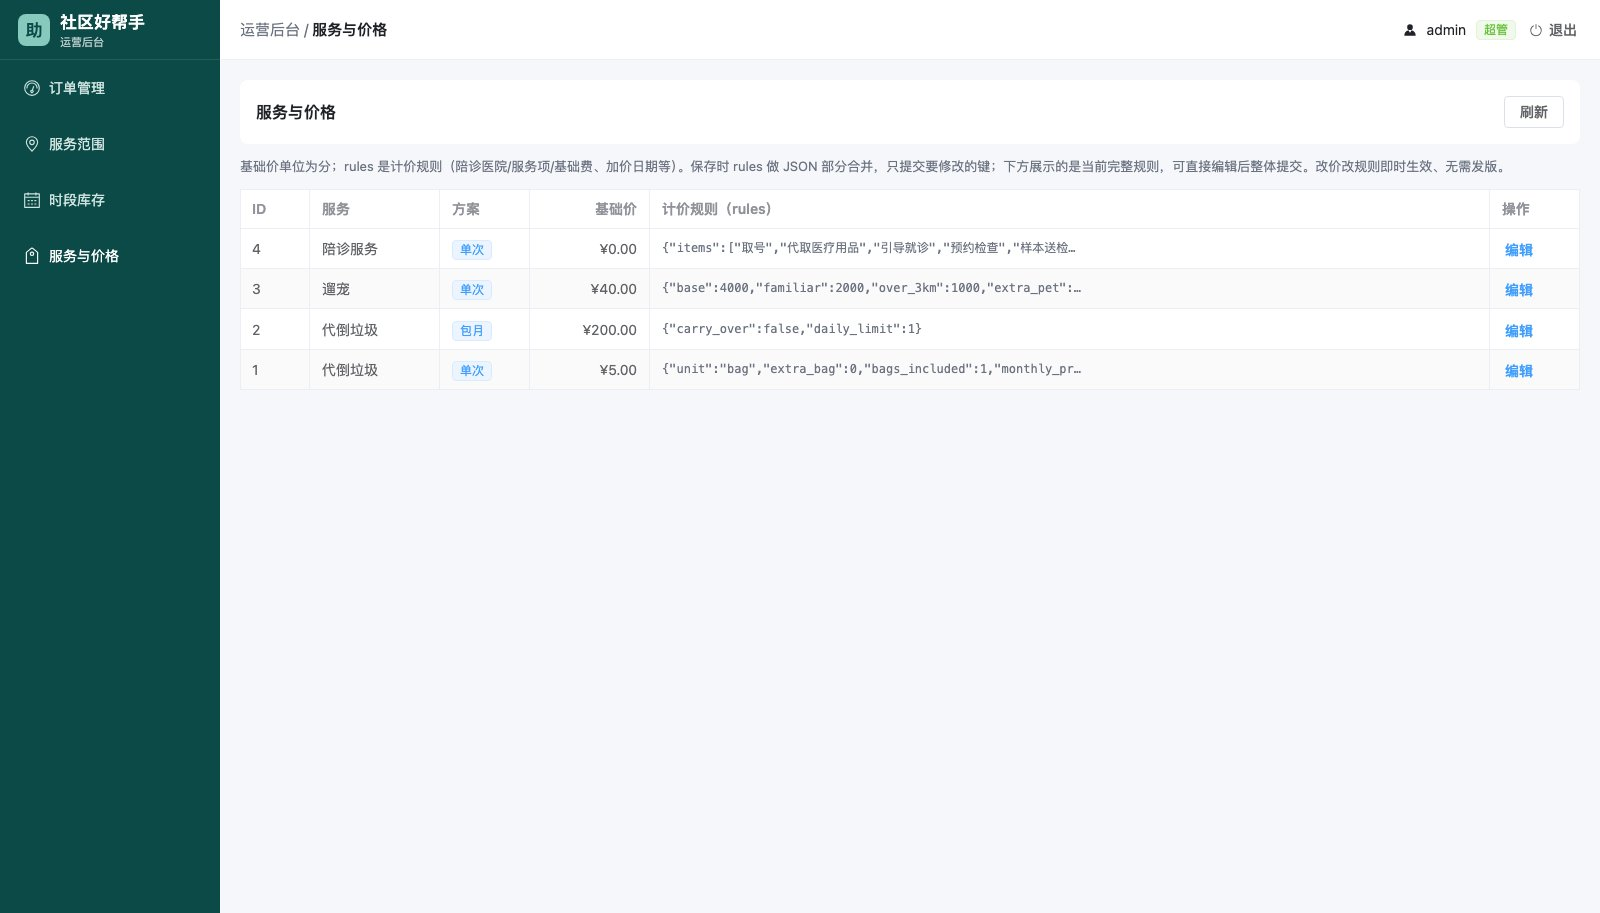
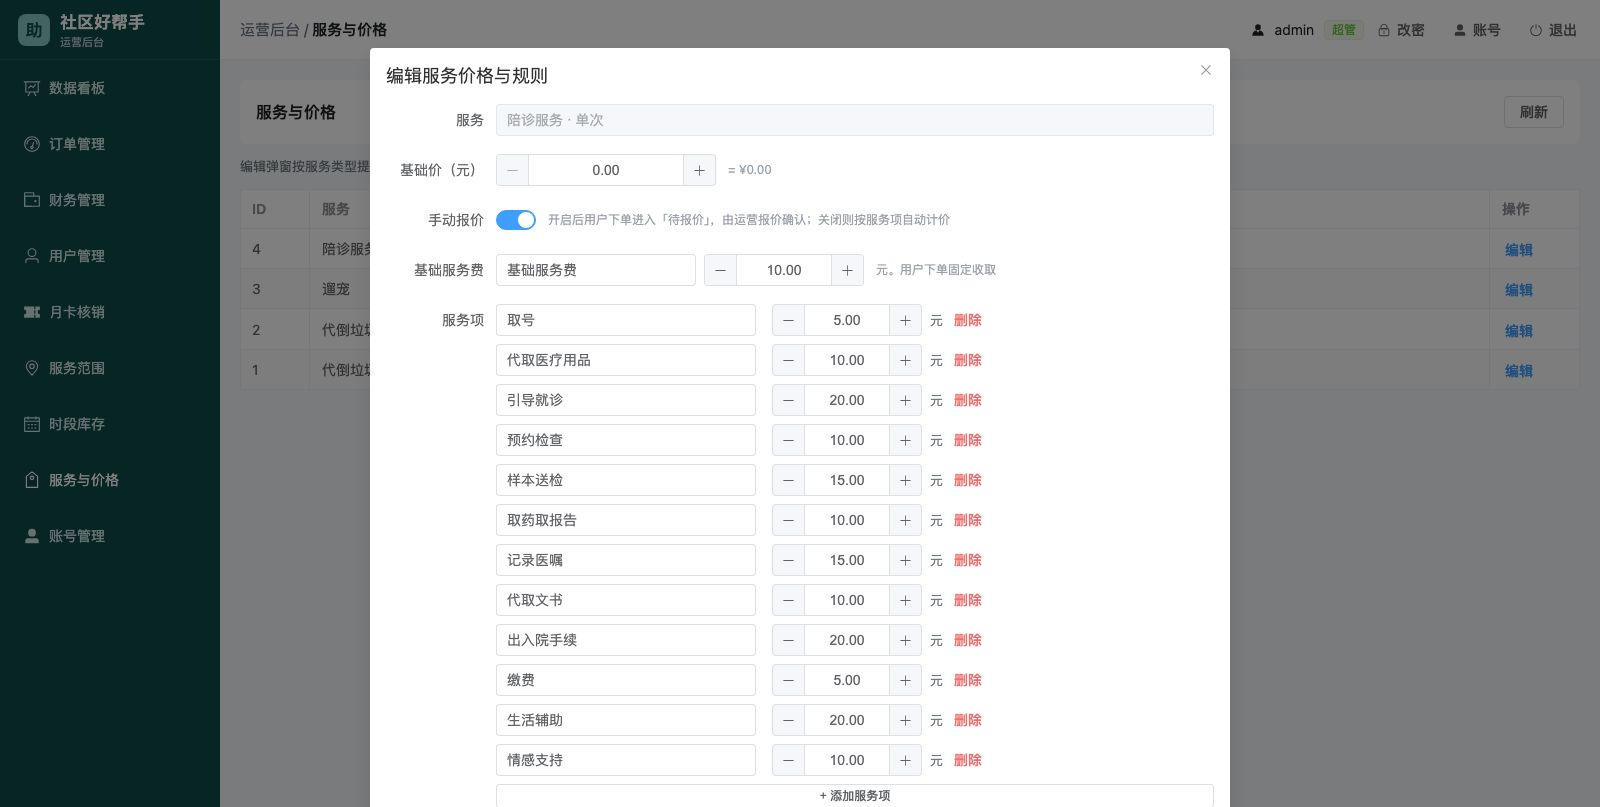
feat: 服务与价格编辑改为结构化表单
- 基础价以元输入；按服务类型分形态：陪诊（手动报价/基础服务费/服务项/医院
  列表化增删，items 自动同步）、遛宠（价格与时长网格表单、节日日期多选）、
  垃圾（单次/包月不同字段）
- 保留「高级 JSON 编辑」开关兜底，结构化值与 JSON 往返一致
- 未识别 rules 键透传保留，截图 05/19 更新

diff --git a/admin/src/views/skus/index.vue b/admin/src/views/skus/index.vue
@@ -1,5 +1,5 @@
 <script setup lang="ts">
-import { onMounted, ref } from 'vue'
+import { computed, onMounted, reactive, ref } from 'vue'
 import { ElMessage } from 'element-plus'
 import { listSkus, updateSku, type ServiceSku, ApiError } from '@/api'
 
@@ -8,13 +8,41 @@ const rows = ref<ServiceSku[]>([])
 const visible = ref(false)
 const saving = ref(false)
 const editing = ref<ServiceSku | null>(null)
-const basePrice = ref(0)
+const advanced = ref(false) // 高级 JSON 模式
 const rulesText = ref('{}')
 const ruleError = ref('')
 
 const typeLabel = (t: string) => ({ garbage: '代倒垃圾', dogwalk: '遛宠', accompany: '陪诊服务' }[t] || t)
 const planLabel = (p: string) => (p === 'monthly' ? '包月' : '单次')
 const money = (fen: number) => `¥${(fen / 100).toFixed(2)}`
+const toYuan = (fen: unknown) => (typeof fen === 'number' ? fen / 100 : 0)
+const toFen = (yuan: number) => Math.round(yuan * 100)
+
+// ---------- 结构化表单状态 ----------
+interface NamedRow { code: string; name: string; priceYuan: number }
+const form = reactive({
+  basePriceYuan: 0,
+  // 陪诊
+  manualQuote: false,
+  baseItemName: '',
+  baseItemPriceYuan: 0,
+  hospitals: [] as { code: string; name: string }[],
+  serviceItems: [] as NamedRow[],
+  // 遛宠：价格（元）
+  dogYuan: { base: 0, familiar: 0, over_3km: 0, extra_pet: 0, feed_only: 0, step_price: 0, holiday_extra: 0 } as Record<string, number>,
+  dogCount: { max_minutes: 120, base_minutes: 20, step_minutes: 10, familiar_free_orders: 5, distance_threshold_km: 3 } as Record<string, number>,
+  holidayDates: [] as string[],
+  // 垃圾
+  garbage: { unit: 'bag', bags_included: 1, extra_bagYuan: 0, monthly_priceYuan: 0, monthly_daily_limit: 1, carry_over: false, daily_limit: 1 },
+})
+
+const isAccompany = computed(() => editing.value?.service_type === 'accompany')
+const isDogwalk = computed(() => editing.value?.service_type === 'dogwalk')
+const isGarbage = computed(() => editing.value?.service_type === 'garbage')
+
+function genCode(prefix: string) {
+  return `${prefix}_${Date.now().toString(36)}${Math.floor(Math.random() * 1e4).toString(36)}`
+}
 
 async function load() {
   loading.value = true
@@ -30,26 +58,124 @@ onMounted(load)
 
 function openEdit(sku: ServiceSku) {
   editing.value = sku
-  basePrice.value = sku.base_price
-  rulesText.value = JSON.stringify(sku.rules ?? {}, null, 2)
+  advanced.value = false
   ruleError.value = ''
+  form.basePriceYuan = toYuan(sku.base_price)
+  const r = (sku.rules ?? {}) as Record<string, unknown>
+
+  // 陪诊
+  form.manualQuote = r.manual_quote === true
+  const bi = (r.base_item ?? null) as { code?: string; name?: string; price?: number } | null
+  form.baseItemName = bi?.name || '基础服务费'
+  form.baseItemPriceYuan = toYuan(bi?.price)
+  form.hospitals = Array.isArray(r.hospitals)
+    ? (r.hospitals as { code: string; name: string }[]).map((h) => ({ code: h.code, name: h.name }))
+    : []
+  form.serviceItems = Array.isArray(r.service_items)
+    ? (r.service_items as { code: string; name: string; price: number }[]).map((i) => ({
+        code: i.code, name: i.name, priceYuan: toYuan(i.price),
+      }))
+    : []
+
+  // 遛宠
+  const dogPriceKeys = ['base', 'familiar', 'over_3km', 'extra_pet', 'feed_only', 'step_price', 'holiday_extra']
+  for (const k of dogPriceKeys) form.dogYuan[k] = toYuan(r[k])
+  const dogCountKeys = ['max_minutes', 'base_minutes', 'step_minutes', 'familiar_free_orders', 'distance_threshold_km']
+  for (const k of dogCountKeys) {
+    const v = r[k]
+    form.dogCount[k] = typeof v === 'number' ? v : form.dogCount[k]
+  }
+  form.holidayDates = Array.isArray(r.holiday_dates) ? (r.holiday_dates as string[]).slice() : []
+
+  // 垃圾
+  form.garbage.unit = typeof r.unit === 'string' ? r.unit : 'bag'
+  form.garbage.bags_included = typeof r.bags_included === 'number' ? r.bags_included : 1
+  form.garbage.extra_bagYuan = toYuan(r.extra_bag)
+  form.garbage.monthly_priceYuan = toYuan(r.monthly_price)
+  form.garbage.monthly_daily_limit = typeof r.monthly_daily_limit === 'number' ? r.monthly_daily_limit : 1
+  form.garbage.carry_over = r.carry_over === true
+  form.garbage.daily_limit = typeof r.daily_limit === 'number' ? r.daily_limit : 1
+
   visible.value = true
+}
+
+// 由结构化表单生成完整 rules（未识别键原样保留）
+function buildRules(): Record<string, unknown> {
+  const src = (editing.value?.rules ?? {}) as Record<string, unknown>
+  const out: Record<string, unknown> = { ...src }
+  if (isAccompany.value) {
+    out.manual_quote = form.manualQuote
+    out.base_item = {
+      code: (src.base_item as { code?: string } | undefined)?.code || 'base_fee',
+      name: form.baseItemName,
+      price: toFen(form.baseItemPriceYuan),
+    }
+    out.hospitals = form.hospitals
+      .filter((h) => h.name.trim())
+      .map((h) => ({ code: h.code, name: h.name.trim() }))
+    out.service_items = form.serviceItems
+      .filter((i) => i.name.trim())
+      .map((i) => ({ code: i.code, name: i.name.trim(), price: toFen(i.priceYuan) }))
+    out.items = (out.service_items as { name: string }[]).map((i) => i.name)
+  } else if (isDogwalk.value) {
+    for (const k of Object.keys(form.dogYuan)) out[k] = toFen(form.dogYuan[k])
+    for (const k of Object.keys(form.dogCount)) out[k] = form.dogCount[k]
+    out.holiday_dates = [...form.holidayDates].sort()
+  } else if (isGarbage.value) {
+    if (editing.value?.plan === 'monthly') {
+      out.carry_over = form.garbage.carry_over
+      out.daily_limit = form.garbage.daily_limit
+    } else {
+      out.unit = form.garbage.unit
+      out.bags_included = form.garbage.bags_included
+      out.extra_bag = toFen(form.garbage.extra_bagYuan)
+      out.monthly_price = toFen(form.garbage.monthly_priceYuan)
+      out.monthly_daily_limit = form.garbage.monthly_daily_limit
+    }
+  }
+  return out
+}
+
+function switchAdvanced(on: boolean) {
+  if (on) {
+    rulesText.value = JSON.stringify(buildRules(), null, 2)
+    ruleError.value = ''
+  }
+  advanced.value = on
+}
+
+function addHospital() {
+  form.hospitals.push({ code: genCode('h'), name: '' })
+}
+function removeHospital(i: number) {
+  form.hospitals.splice(i, 1)
+}
+function addServiceItem() {
+  form.serviceItems.push({ code: genCode('si'), name: '', priceYuan: 0 })
+}
+function removeServiceItem(i: number) {
+  form.serviceItems.splice(i, 1)
 }
 
 async function save() {
   if (!editing.value) return
-  let parsed: Record<string, unknown>
-  try {
-    parsed = JSON.parse(rulesText.value)
-    if (!parsed || typeof parsed !== 'object' || Array.isArray(parsed)) throw new Error('规则必须是 JSON 对象')
-    ruleError.value = ''
-  } catch (e) {
-    ruleError.value = e instanceof Error ? e.message : 'JSON 格式错误'
-    return
+  let rules: Record<string, unknown>
+  if (advanced.value) {
+    try {
+      const parsed = JSON.parse(rulesText.value)
+      if (!parsed || typeof parsed !== 'object' || Array.isArray(parsed)) throw new Error('规则必须是 JSON 对象')
+      rules = parsed
+      ruleError.value = ''
+    } catch (e) {
+      ruleError.value = e instanceof Error ? e.message : 'JSON 格式错误'
+      return
+    }
+  } else {
+    rules = buildRules()
   }
   saving.value = true
   try {
-    await updateSku(editing.value.id, basePrice.value, parsed)
+    await updateSku(editing.value.id, toFen(form.basePriceYuan), rules)
     ElMessage.success('已保存，计价规则即时生效，无需发版')
     visible.value = false
     load()
@@ -68,7 +194,7 @@ async function save() {
       <el-button @click="load">刷新</el-button>
     </div>
     <div class="note">
-      基础价单位为分；rules 是计价规则（陪诊医院/服务项/基础费、加价日期等）。保存时 rules 做 JSON 部分合并，只提交要修改的键；下方展示的是当前完整规则，可直接编辑后整体提交。改价改规则即时生效、无需发版。
+      编辑弹窗按服务类型提供结构化表单（价格为元）；「高级 JSON 编辑」可改全部原始键。保存后即时生效、无需发版。
     </div>
 
     <el-table :data="rows" v-loading="loading" border stripe style="width: 100%">
@@ -92,22 +218,130 @@ async function save() {
       </el-table-column>
     </el-table>
 
-    <el-dialog v-model="visible" title="编辑服务价格与规则" width="720px">
+    <el-dialog v-model="visible" title="编辑服务价格与规则" width="860px" top="6vh">
       <template v-if="editing">
-        <el-form label-width="100px">
+        <el-form label-width="110px">
           <el-form-item label="服务">
             <el-input :model-value="`${typeLabel(editing.service_type)} · ${planLabel(editing.plan)}`" disabled />
           </el-form-item>
-          <el-form-item label="基础价（分）">
-            <el-input-number v-model="basePrice" :min="0" :step="100" style="width: 220px" />
-            <span class="hint">= {{ money(basePrice) }}</span>
+          <el-form-item label="基础价（元）">
+            <el-input-number v-model="form.basePriceYuan" :min="0" :precision="2" :step="1" style="width: 220px" />
+            <span class="hint">= {{ money(toFen(form.basePriceYuan)) }}</span>
           </el-form-item>
-          <el-form-item label="计价规则">
-            <el-input v-model="rulesText" type="textarea" :rows="16" spellcheck="false" class="json-input" />
-            <div v-if="ruleError" class="err">{{ ruleError }}</div>
-            <div class="hint">JSON 对象。陪诊可编辑 hospitals / service_items / base_item；通用可编辑 holiday_dates、billing 等。</div>
-          </el-form-item>
+
+          <!-- 高级 JSON 模式 -->
+          <template v-if="advanced">
+            <el-form-item label="规则 JSON">
+              <el-input v-model="rulesText" type="textarea" :rows="18" spellcheck="false" class="json-input" />
+              <div v-if="ruleError" class="err">{{ ruleError }}</div>
+              <div class="hint">直接编辑原始 JSON 对象，保存整体提交。</div>
+            </el-form-item>
+          </template>
+
+          <!-- 结构化表单 -->
+          <template v-else>
+            <!-- 陪诊 -->
+            <template v-if="isAccompany">
+              <el-form-item label="手动报价">
+                <el-switch v-model="form.manualQuote" />
+                <span class="hint">开启后用户下单进入「待报价」，由运营报价确认；关闭则按服务项自动计价</span>
+              </el-form-item>
+              <el-form-item label="基础服务费">
+                <el-input v-model="form.baseItemName" style="width: 200px" placeholder="名称" />
+                <el-input-number v-model="form.baseItemPriceYuan" :min="0" :precision="2" :step="1" style="width: 160px; margin-left: 8px" />
+                <span class="hint">元。用户下单固定收取</span>
+              </el-form-item>
+              <el-form-item label="服务项">
+                <div class="rows">
+                  <div v-for="(it, i) in form.serviceItems" :key="it.code" class="row">
+                    <el-input v-model="it.name" placeholder="项目名称" style="width: 260px" />
+                    <el-input-number v-model="it.priceYuan" :min="0" :precision="2" :step="1" style="width: 150px; margin-left: 8px" />
+                    <span class="row-unit">元</span>
+                    <el-button link type="danger" @click="removeServiceItem(i)">删除</el-button>
+                  </div>
+                  <el-button size="small" @click="addServiceItem">+ 添加服务项</el-button>
+                  <div class="hint" style="margin-left: 0">按项计价；用户端展示的项目名与价格即来自这里</div>
+                </div>
+              </el-form-item>
+              <el-form-item label="支持医院">
+                <div class="rows">
+                  <div v-for="(h, i) in form.hospitals" :key="h.code" class="row">
+                    <el-input v-model="h.name" placeholder="医院名称" style="width: 320px" />
+                    <el-button link type="danger" @click="removeHospital(i)">删除</el-button>
+                  </div>
+                  <el-button size="small" @click="addHospital">+ 添加医院</el-button>
+                </div>
+              </el-form-item>
+            </template>
+
+            <!-- 遛宠 -->
+            <template v-else-if="isDogwalk">
+              <el-form-item label="价格（元）">
+                <div class="grid">
+                  <div v-for="k in (['base','familiar','over_3km','extra_pet','feed_only','step_price','holiday_extra'] as const)" :key="k" class="cell">
+                    <span class="cell-label">{{ DOG_PRICE_LABELS[k] }}</span>
+                    <el-input-number v-model="form.dogYuan[k]" :min="0" :precision="2" :step="1" style="width: 150px" />
+                  </div>
+                </div>
+              </el-form-item>
+              <el-form-item label="时长 / 规则">
+                <div class="grid">
+                  <div v-for="k in (['base_minutes','step_minutes','max_minutes','familiar_free_orders','distance_threshold_km'] as const)" :key="k" class="cell">
+                    <span class="cell-label">{{ DOG_COUNT_LABELS[k] }}</span>
+                    <el-input-number v-model="form.dogCount[k]" :min="0" style="width: 150px" />
+                  </div>
+                </div>
+              </el-form-item>
+              <el-form-item label="节日加价日">
+                <el-date-picker
+                  v-model="form.holidayDates" type="dates" value-format="YYYY-MM-DD"
+                  placeholder="选择一个或多个日期" style="width: 420px"
+                />
+                <div class="hint">所选日期下单按「节日加价」收取</div>
+              </el-form-item>
+            </template>
+
+            <!-- 垃圾 -->
+            <template v-else-if="isGarbage">
+              <template v-if="editing.plan === 'monthly'">
+                <el-form-item label="每日次数上限">
+                  <el-input-number v-model="form.garbage.daily_limit" :min="1" :max="10" style="width: 200px" />
+                </el-form-item>
+                <el-form-item label="次数可结转">
+                  <el-switch v-model="form.garbage.carry_over" />
+                  <span class="hint">当天未用次数是否结转到次日</span>
+                </el-form-item>
+              </template>
+              <template v-else>
+                <el-form-item label="计价单位">
+                  <el-radio-group v-model="form.garbage.unit">
+                    <el-radio value="bag">按袋</el-radio>
+                  </el-radio-group>
+                </el-form-item>
+                <el-form-item label="含袋数">
+                  <el-input-number v-model="form.garbage.bags_included" :min="1" :max="10" style="width: 200px" />
+                  <span class="hint">基础价包含的袋数</span>
+                </el-form-item>
+                <el-form-item label="超袋加价">
+                  <el-input-number v-model="form.garbage.extra_bagYuan" :min="0" :precision="2" :step="1" style="width: 200px" />
+                  <span class="hint">元 / 袋</span>
+                </el-form-item>
+                <el-form-item label="包月价">
+                  <el-input-number v-model="form.garbage.monthly_priceYuan" :min="0" :precision="2" :step="10" style="width: 200px" />
+                  <span class="hint">元 / 月，展示与包月升级参考价</span>
+                </el-form-item>
+                <el-form-item label="包月每日上限">
+                  <el-input-number v-model="form.garbage.monthly_daily_limit" :min="1" :max="10" style="width: 200px" />
+                </el-form-item>
+              </template>
+            </template>
+          </template>
         </el-form>
+
+        <div class="advanced-toggle">
+          <el-switch :model-value="advanced" @change="(v: unknown) => switchAdvanced(v === true)" />
+          <span class="hint">高级 JSON 编辑（结构化表单之外的全部原始键）</span>
+        </div>
       </template>
       <template #footer>
         <el-button @click="visible = false">取消</el-button>
@@ -117,12 +351,38 @@ async function save() {
   </div>
 </template>
 
+<script lang="ts">
+// 标签常量（模板中使用）
+export default {
+  data() {
+    return {
+      DOG_PRICE_LABELS: {
+        base: '起步价（元）', familiar: '熟悉费（元）', over_3km: '超3km加价（元）',
+        extra_pet: '每多一只（元）', feed_only: '仅喂食（元）', step_price: '时长每档加价（元）',
+        holiday_extra: '节日加价（元）',
+      },
+      DOG_COUNT_LABELS: {
+        base_minutes: '含时长（分钟）', step_minutes: '每档时长（分钟）', max_minutes: '最长时长（分钟）',
+        familiar_free_orders: '免熟悉费订单数', distance_threshold_km: '距离阈值（km）',
+      },
+    }
+  },
+}
+</script>
+
 <style scoped>
 .toolbar { display: flex; align-items: center; justify-content: space-between; background: #fff; padding: 16px; border-radius: 8px; margin-bottom: 12px; }
 .title { font-size: 16px; font-weight: 600; }
 .note { color: #6b7280; font-size: 13px; margin-bottom: 12px; line-height: 1.6; }
 .rules-preview { display: block; max-width: 420px; overflow: hidden; text-overflow: ellipsis; white-space: nowrap; font-size: 12px; color: #6b7280; }
-.hint { color: #9aa3ad; font-size: 12px; margin-left: 12px; }
+.hint { color: #9aa3ad; font-size: 12px; margin-left: 12px; line-height: 1.5; }
 .err { color: #dc2626; font-size: 12px; margin-top: 4px; }
+.rows { display: flex; flex-direction: column; gap: 8px; width: 100%; }
+.row { display: flex; align-items: center; gap: 8px; }
+.row-unit { color: #6b7280; font-size: 13px; }
+.grid { display: grid; grid-template-columns: repeat(2, 1fr); gap: 10px 24px; width: 100%; }
+.cell { display: flex; align-items: center; justify-content: space-between; }
+.cell-label { color: #374151; font-size: 13px; }
+.advanced-toggle { display: flex; align-items: center; margin-top: 8px; padding-top: 12px; border-top: 1px dashed #e5e7eb; }
 :deep(.json-input textarea) { font-family: 'SF Mono', Menlo, Consolas, monospace; font-size: 12px; line-height: 1.5; }
 </style>
